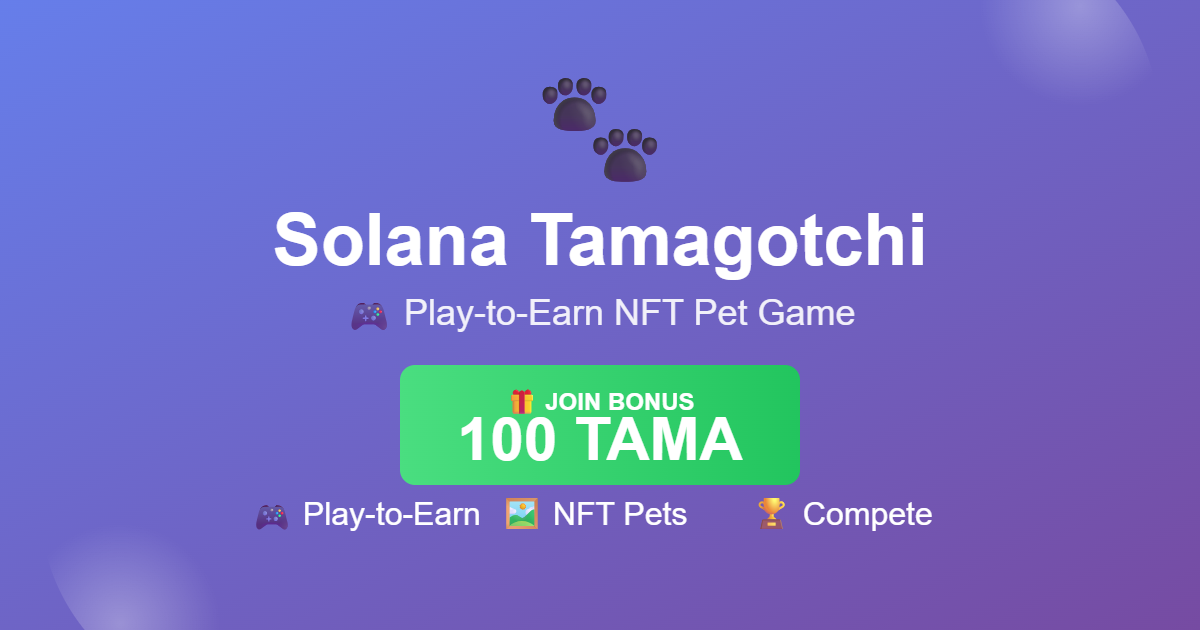
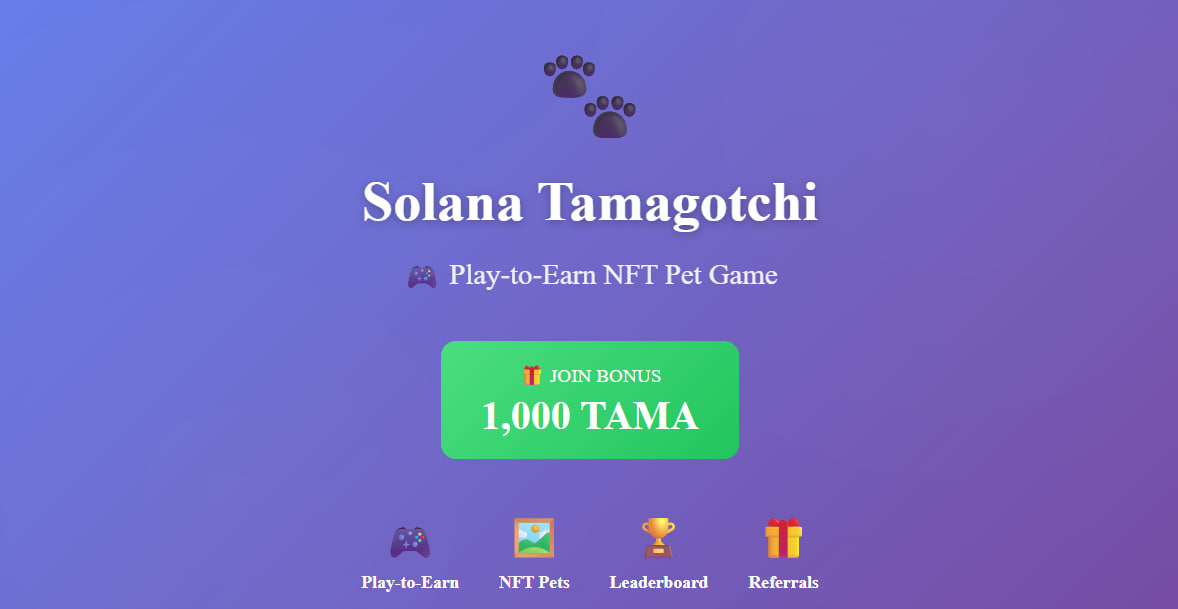
Update referral preview image to show 1,000 TAMA and fix cache-busting

diff --git a/s.html b/s.html
@@ -4,9 +4,10 @@
     <meta charset="UTF-8">
     <meta name="viewport" content="width=device-width, initial-scale=1.0">
     <title>🎮 Join Solana Tamagotchi - Get 1,000 TAMA Bonus!</title>
+    <meta property="og:url" content="https://tr1h.github.io/solana-tamagotchi/s.html?v=15">
     <meta property="og:title" content="🎮 Join Solana Tamagotchi - Get 1,000 TAMA Bonus!">
     <meta property="og:description" content="🐾 Play-to-Earn NFT pet game on Solana! Grow unique pets, earn TAMA tokens, and compete on leaderboard. Get 1,000 TAMA bonus when you join!">
-    <meta property="og:image" content="https://tr1h.github.io/solana-tamagotchi/assets/referral-preview.png?v=2">
+    <meta property="og:image" content="https://tr1h.github.io/solana-tamagotchi/assets/referral-preview.png?v=16">
     <meta property="og:image:width" content="1200">
     <meta property="og:image:height" content="630">
     <meta name="twitter:card" content="summary_large_image">
